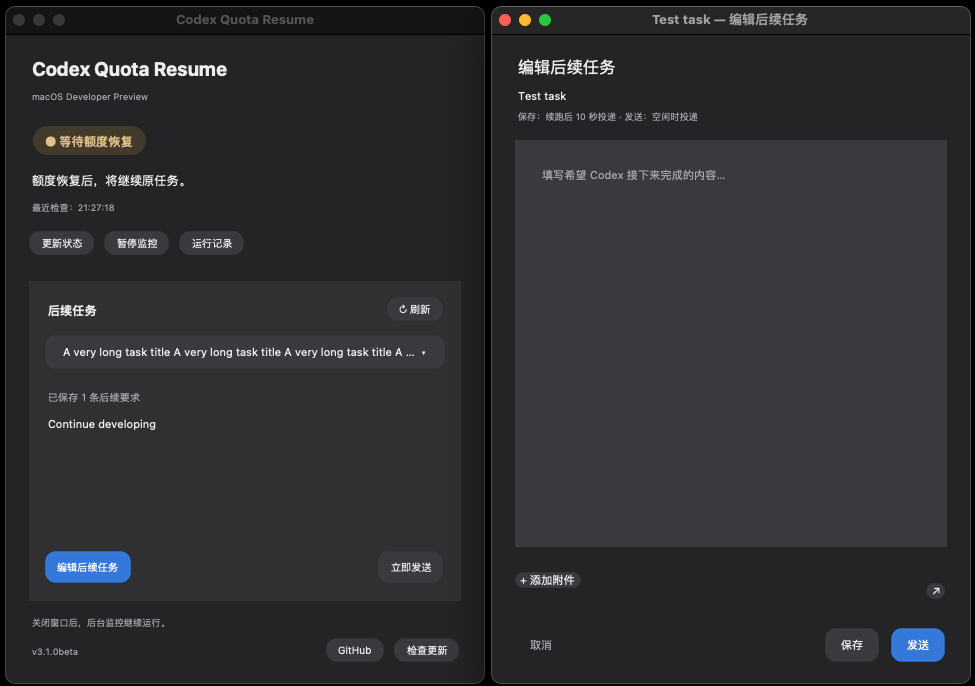
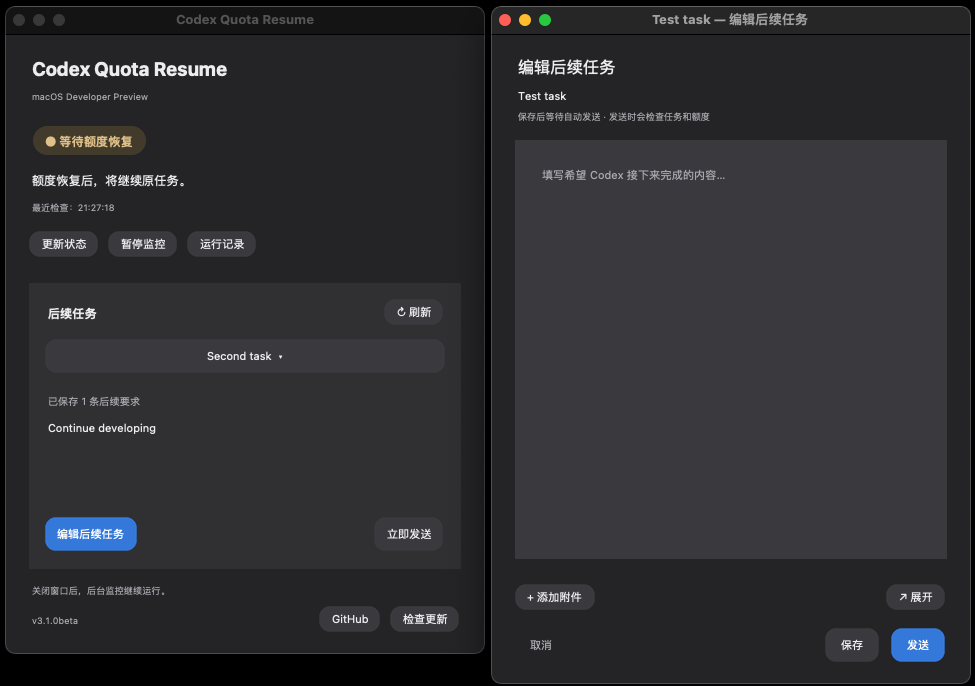
Record second UI QA results, installation and verification boundaries

diff --git a/docs/macos-v3.1.0beta-ui-qa.md b/docs/macos-v3.1.0beta-ui-qa.md
@@ -1,0 +1,44 @@
+# v3.1.0beta 第二轮 UI QA
+
+本轮仅修正表现层与交互反馈，不新增功能。开发分支 `MacOS-version`，版本保持 `3.1.0beta`，继续标记 Developer Preview。
+
+## 逐项检查与修复
+
+| 区域 | 发现 / 复核 | 本轮处理 |
+| --- | --- | --- |
+| 任务选择窗口 | 透明 Tk 弹窗可能出现黑色直角底板与边缘残留，风格偏离系统菜单 | macOS 改用 NSMenu，系统管理圆角、阴影、关闭与滚动；不再创建透明 Tk 弹窗；选择回调经队列交回 Tk |
+| 主窗口 | 默认高度与内容不匹配；窗口放大后编辑窗无法排放 | 默认 / 最小 480×620；空间不足时编辑窗在主窗附近显示，不阻止打开；保留系统标题栏、交通灯与系统圆角 |
+| 任务选择区域 | 长标题容易挤占菜单；无任务时下一步不明确；列表加载后按钮短暂不可用 | 按实际字体宽度省略，完整标题保留 tooltip；空态提示刷新 / 选择；加载后立即同步按钮 |
+| 状态区域 | 旧运行状态可能掩盖监控未启用状态 | 已暂停、异常、未启用 / 读取中等状态明确排序；只使用必要语义色，不增加装饰 |
+| 后续任务区域 | 过长预览挤占按钮；缩小时主要操作空间不稳定 | 预览限制 96 字符，底部操作先保留空间；保存摘要、预览与按钮层级统一 |
+| 需求编辑窗口 | 按钮字号不一致；展开图标含义不明确；文案偏技术化 | 主窗与编辑窗动作字号统一 11；使用“展开”；说明改为任务 / 额度检查语言；保留取消、保存、发送层级 |
+| 附件区域 | 固定按钮容器使按钮高度不一致 | macOS 使用自然按钮高度与一致内边距；附件预览与文件列表保持有界滚动，不改变数据格式 |
+| 底部栏 | 主动作与工具动作应有区别 | 更新 / GitHub 保持紧凑次级动作，版本与反馈保持辅助文字；不增加重复窗口控制 |
+| Light Mode | 复核窗口、卡片、输入、按钮、标题栏 | 使用共享语义调色板，原生菜单采用 Aqua 外观 |
+| Dark Mode | 复核窗口、卡片、输入、按钮、标题栏 | 使用同一布局与字号，原生菜单采用 Dark Aqua 外观，无渐变、玻璃或动画 |
+
+## 业务影响
+
+`quota_watcher.py`、`codex_status.py`、`macos.py` 未修改。任务选择继续返回同一列表索引；保存、附件持久副本、立即发送与延迟投递仍走原有回调。`app.py` 只增加任务加载后立即同步已保存摘要和按钮状态。Windows 保留原弹窗与原窗口路径。
+
+## 验证与限制
+
+本机图形会话受到终端沙箱限制，不能把当前用户桌面当作已完成实机观察。原生 GUI 检查与截图由 GitHub macOS CI 执行，使用模拟任务和临时数据；不触碰真实任务。目标设备上的多显示器、Retina、系统设置真实切换 Light / Dark，以及实际鼠标 / Esc 关闭原生菜单仍需人工验收。
+
+系统标题栏和菜单圆角由 AppKit 管理。相关 API：[NSMenu](https://developer.apple.com/documentation/appkit/nsmenu)、[cancelTracking](https://developer.apple.com/documentation/appkit/nsmenu/canceltracking())。
+
+本版仍为 ad-hoc 签名，没有 Developer ID 与 Apple 公证；不作为正式稳定版。
+
+## 最终验证结果（2026-09-18）
+
+验证提交：`a7b35377c689d38da881b2f0a8525cf06e2cba2e`。
+
+- [macOS CI](https://github.com/joejoeha/codex-quota-resume/actions/runs/35358228259)：arm64 与 Intel 均通过，包含已有业务回归、原生主窗 / 编辑窗、图片与文件往返、缩放与大窗口排放、菜单数据与选择回调、临时 LaunchAgent、打包与冻结自检。
+- [Windows CI](https://github.com/joejoeha/codex-quota-resume/actions/runs/35358228213)：通过已有回归。
+- 本地已有 watcher、延迟投递、取消、备份、实时状态、弹出、macOS 合同、doctor 与 updater 测试通过；compileall 与差异空白检查通过。
+- 原生 NSMenu 的条目、选择回调、队列与主题参数已自动测试；弹出追踪入口在 CI 使用替身，避免无人值守菜单阻塞。菜单真实黑边消除、Esc、外部点击及多显示器定位必须由实际桌面检查，当前不宣称已完成物理操作验收。
+- 已人工读取 CI 浅色 / 深色截图：主窗与编辑窗没有重复窗口控制；字体、动作层级、颜色与留白一致。截图为模拟任务，不表示实际业务端到端验收。
+- 本地包严格签名检查与 `--self-test` 通过，安装至 `/Users/zhantaorui/Applications/CodexQuotaResume.app`。原安装备份至 `/Users/zhantaorui/Applications/.quota-resume-qa2-backup-20260918-224837/CodexQuotaResume.app`。
[1 lines of base64/hex data omitted]
+
+最终状态：第二轮代码修正完成，自动回归通过，已安装与推送 `MacOS-version`。版本仍为 `v3.1.0beta · Developer Preview`，目标设备人工验收未完成。安装不会替换已运行进程的界面；需退出旧界面后重新打开应用才能看到本轮改动。

diff --git a/docs/macos-v3.1.0beta-validation.md b/docs/macos-v3.1.0beta-validation.md
@@ -1,5 +1,7 @@
 # v3.1.0beta · macOS Developer Preview
 
+第二轮修正与当前安装结果见 [UI QA 记录](macos-v3.1.0beta-ui-qa.md)。以下结果保留第一轮验证历史。
+
 开发分支：`MacOS-version`。本轮不修改 `main`，不发布稳定版。
 
 ## 架构与修改范围
